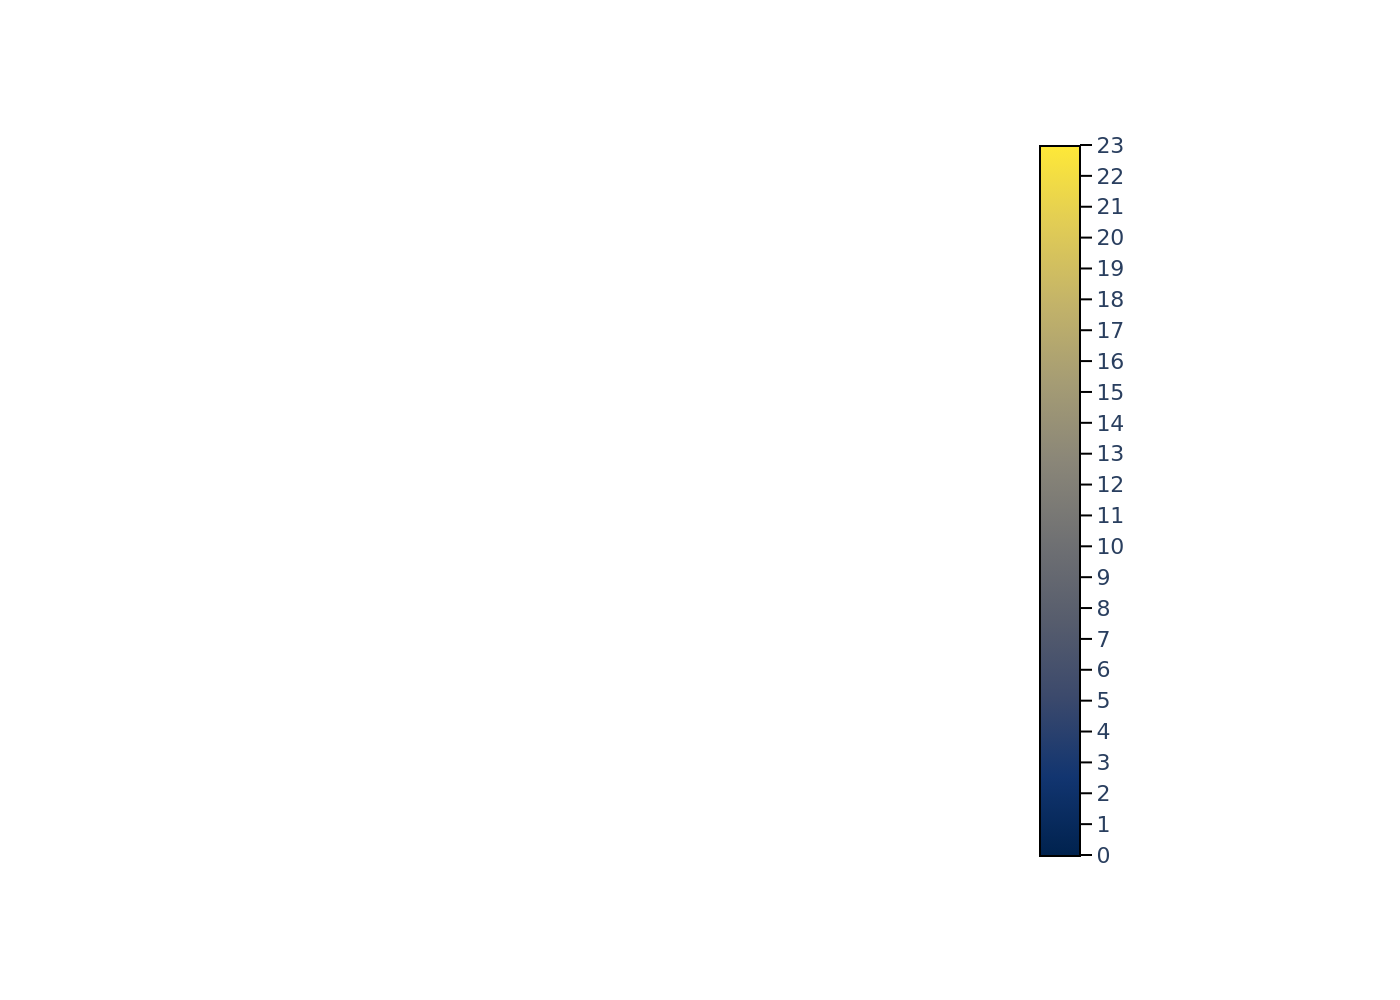
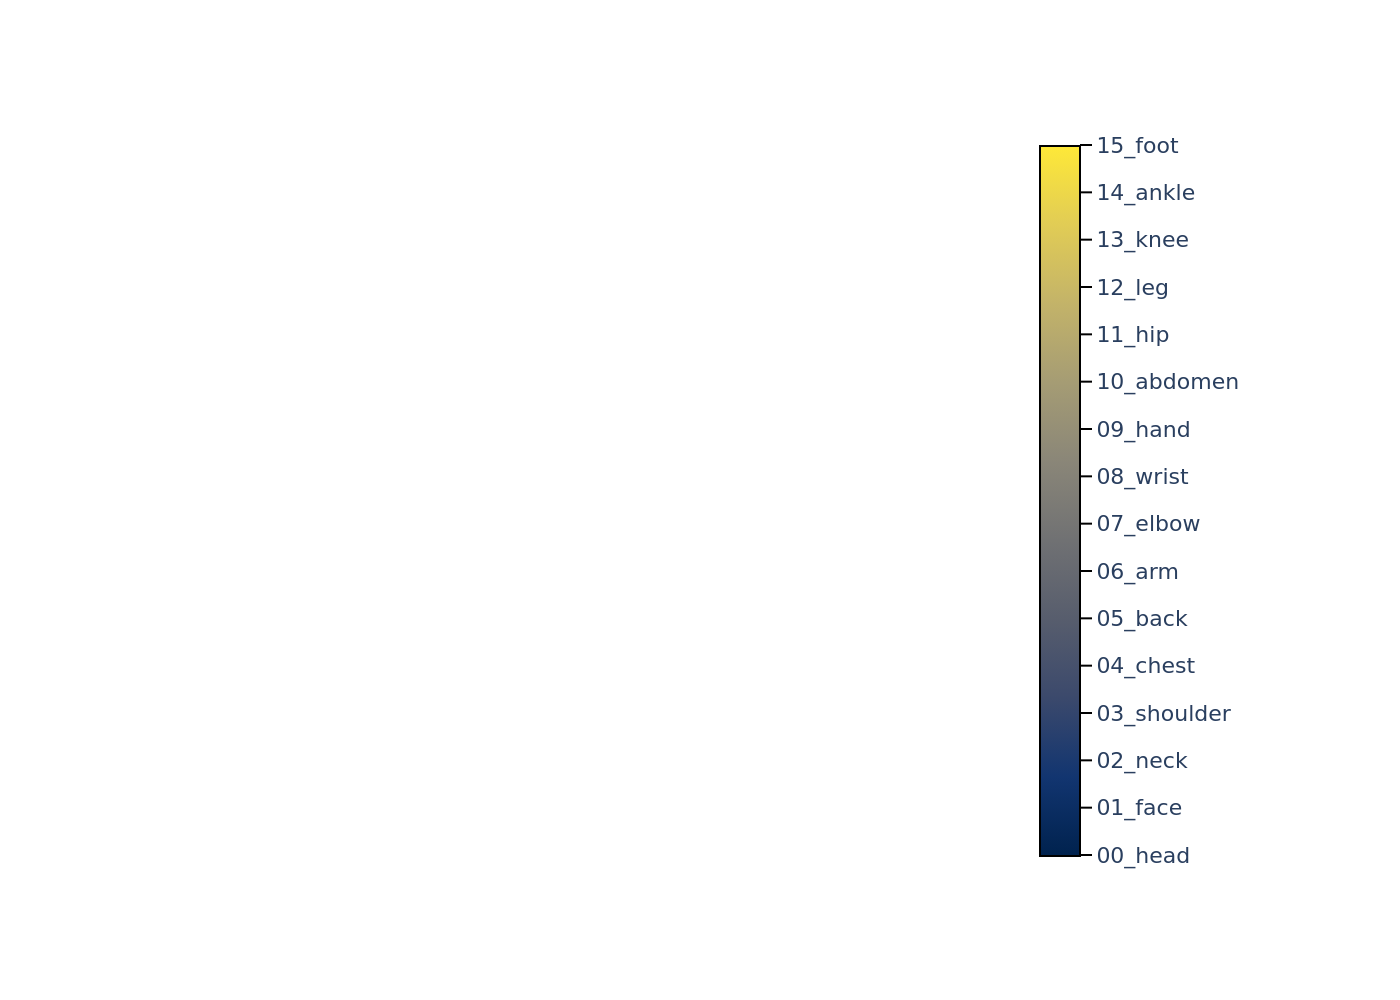
repair legends generation

Changed region(s): [[0.7679, 0.155, 0.8907, 0.868], [0.7986, 0.124, 0.8293, 0.155]]

diff --git a/src/latex/camera_ready.py b/src/latex/camera_ready.py
@@ -115,7 +115,10 @@ def _task_from_dataframe_path(path_str: str) -> str:
     return Path(path_str).stem
 
 
-def load_color_info(dataset_config_path: Path) -> dict[str, dict]:
+def load_color_info(
+    dataset_config_path: Path,
+    csv_base_dir: Path | None = None,
+) -> dict[str, dict]:
     """Return a mapping from task name to its color configuration.
 
     Each value is a dict with keys:
@@ -123,17 +126,43 @@ def load_color_info(dataset_config_path: Path) -> dict[str, dict]:
     - ``color_scale``: named Plotly colorscale string if present, else None
     - ``hypothesis_color_overrides``: {hyp_name: {label: color}} if present, else {}
     - ``continuous_color``: bool
+    - ``labels``: sorted unique Label-column values read from the CSV when
+      *csv_base_dir* is provided and the CSV exists; ``None`` otherwise.
     """
+    import csv as _csv
+
     with open(dataset_config_path) as f:
         raw = json.load(f)
     info: dict[str, dict] = {}
     for entry in raw:
         task = _task_from_dataframe_path(entry["dataframe_path"])
+
+        labels: list | None = None
+        if csv_base_dir is not None:
+            csv_path = csv_base_dir / f"{task}.csv"
+            if csv_path.exists():
+                with open(csv_path, newline="") as cf:
+                    reader = _csv.DictReader(cf)
+                    raw_labels = {row["Label"] for row in reader if "Label" in row}
+                # Attempt numeric sort + conversion (int/float) so colorbars get proper ranges;
+                # fall back to lexicographic string sort for categorical labels.
+                try:
+                    float_vals = {v: float(v) for v in raw_labels}
+                    sorted_str = sorted(raw_labels, key=lambda v: float_vals[v])
+                    # Convert to int where lossless, else keep as float
+                    labels = [
+                        int(float_vals[v]) if float_vals[v] == int(float_vals[v]) else float_vals[v]
+                        for v in sorted_str
+                    ]
+                except ValueError:
+                    labels = sorted(raw_labels)
+
         info[task] = {
             "color_map":                  entry.get("color_map"),
             "color_scale":                entry.get("color_scale"),
             "hypothesis_color_overrides": entry.get("hypothesis_color_overrides", {}),
             "continuous_color":           entry.get("continuous_color", False),
+            "labels":                     labels,
         }
     return info
 
@@ -150,6 +179,7 @@ class LegendGroup:
     color_map: dict | None = None
     color_scale: str | None = None
     continuous_color: bool = False
+    labels: list | None = None  # sorted unique label values; None = unknown
 
 
 def infer_legend_groups(
@@ -162,6 +192,9 @@ def infer_legend_groups(
     - All entries for the same canonical task share one legend, **unless**
       the task has ``hypothesis_color_overrides`` — in that case each overridden
       hypothesis gets its own sub-group; remaining hypotheses share one group.
+    - ``pile-uncopyrighted`` entries are split by wrap length: each unique wrap
+      length (80, 150, …) gets its own group with key
+      ``"pile-uncopyrighted__{N}"``.
     - Task names are canonicalised via :func:`_canonical_task` before config lookup.
     """
     from collections import defaultdict
@@ -175,6 +208,25 @@ def infer_legend_groups(
 
     for task, task_entries in sorted(by_task.items()):
         ci = color_info.get(task, {})
+
+        # ── newline task: one group per wrap length ──────────────────────────
+        if task == "pile-uncopyrighted":
+            by_wrap: dict[int, list[PNGEntry]] = defaultdict(list)
+            for e in task_entries:
+                n = _infer_newline_wrap([e])
+                by_wrap[n].append(e)
+            for n, wrap_entries in sorted(by_wrap.items()):
+                groups.append(LegendGroup(
+                    key=f"pile-uncopyrighted__{n}",
+                    task="pile-uncopyrighted",
+                    hyp_filter=None,
+                    entries=wrap_entries,
+                    color_scale="Viridis",
+                    continuous_color=True,
+                    labels=list(range(1, n + 1)),
+                ))
+            continue
+
         overrides: dict[str, dict] = ci.get("hypothesis_color_overrides", {})
 
         if overrides:
@@ -196,6 +248,7 @@ def infer_legend_groups(
                     entries=hyp_entries,
                     color_map=overrides[hyp_name],
                     continuous_color=False,
+                    labels=ci.get("labels"),
                 )
                 groups.append(g)
 
@@ -208,6 +261,7 @@ def infer_legend_groups(
                     color_map=ci.get("color_map"),
                     color_scale=ci.get("color_scale"),
                     continuous_color=ci.get("continuous_color", False),
+                    labels=ci.get("labels"),
                 )
                 groups.append(g)
         else:
@@ -219,6 +273,7 @@ def infer_legend_groups(
                 color_map=ci.get("color_map"),
                 color_scale=ci.get("color_scale"),
                 continuous_color=ci.get("continuous_color", False),
+                labels=ci.get("labels"),
             )
             groups.append(g)
 
@@ -226,13 +281,17 @@ def infer_legend_groups(
 
 
 def build_all_config_groups(color_info: dict[str, dict]) -> list[LegendGroup]:
-    """Build legend groups for **every** task in the config, even those without PNGs.
+    """Build legend groups for every task in the config, even those without PNGs.
 
-    This ensures a complete library of legend images is generated.
+    ``pile-uncopyrighted`` is excluded — its legends depend on the actual wrap
+    length present in the PNGs and are built by :func:`infer_legend_groups` instead.
     """
     groups: list[LegendGroup] = []
 
     for task, ci in sorted(color_info.items()):
+        if task == "pile-uncopyrighted":
+            continue  # handled per-wrap-length in infer_legend_groups
+
         overrides: dict[str, dict] = ci.get("hypothesis_color_overrides", {})
 
         if overrides:
@@ -243,8 +302,9 @@ def build_all_config_groups(color_info: dict[str, dict]) -> list[LegendGroup]:
                     hyp_filter=hyp_name,
                     color_map=overrides[hyp_name],
                     continuous_color=False,
+                    labels=ci.get("labels"),
                 ))
-            # Default group (no override)
+            # Default group (hypotheses without an override, e.g. taxonomy in living_things)
             groups.append(LegendGroup(
                 key=task,
                 task=task,
@@ -252,6 +312,7 @@ def build_all_config_groups(color_info: dict[str, dict]) -> list[LegendGroup]:
                 color_map=ci.get("color_map"),
                 color_scale=ci.get("color_scale"),
                 continuous_color=ci.get("continuous_color", False),
+                labels=ci.get("labels"),
             ))
         else:
             groups.append(LegendGroup(
@@ -261,6 +322,7 @@ def build_all_config_groups(color_info: dict[str, dict]) -> list[LegendGroup]:
                 color_map=ci.get("color_map"),
                 color_scale=ci.get("color_scale"),
                 continuous_color=ci.get("continuous_color", False),
+                labels=ci.get("labels"),
             ))
 
     return groups
@@ -274,21 +336,8 @@ def _render_group_legend(group: LegendGroup, output_path: Path) -> None:
 
     output_path.parent.mkdir(parents=True, exist_ok=True)
 
-    # Hard-coded newline exception: use Viridis with integer range [1, line_length]
-    if group.task == "pile-uncopyrighted":
-        # Determine wraparound point from any PNG entry's experiment path,
-        # or default to 150.  The newline output dirs are newline_80, newline_150, etc.
-        line_length = _infer_newline_wrap(group.entries)
-        labels = list(range(1, line_length + 1))
-        render_legend_png(
-            colorscale="Viridis",
-            labels=labels,
-            output_path=output_path,
-            continuous_color=True,
-        )
-        return
-
     if group.color_map:
+        # Explicit per-label colour mapping → discrete coloured legend
         labels = sorted(group.color_map.keys())
         render_legend_png(
             colorscale=group.color_map,
@@ -296,15 +345,25 @@ def _render_group_legend(group: LegendGroup, output_path: Path) -> None:
             output_path=output_path,
         )
     elif group.color_scale:
-        # Named colorscale without explicit label→color map.
-        # Build numeric labels matching the class count that scatter3d would see.
-        # The colorbar renders by range; exact tick labels come from the data.
-        labels = list(range(24))  # placeholder — colorbar will auto-range
+        # Named colorscale → continuous colorbar.
+        # Use real label values (loaded from CSV) so the axis range and auto-ticks
+        # reflect the actual data domain (e.g. −40…140 °F) instead of 0…23.
+        if not group.labels:
+            typer.echo(f"  [skip legend] no labels available for group {group.key}", err=True)
+            return
         render_legend_png(
             colorscale=group.color_scale,
-            labels=labels,
+            labels=group.labels,
             output_path=output_path,
+            label_names=None,  # triggers auto-tick in render_legend_png
             continuous_color=group.continuous_color,
+        )
+    elif group.labels:
+        # No explicit color info — render discrete legend with HSV auto-coloring
+        render_legend_png(
+            colorscale=None,
+            labels=group.labels,
+            output_path=output_path,
         )
     else:
         typer.echo(f"  [skip legend] no color info for group {group.key}", err=True)
@@ -472,9 +531,10 @@ def figures(
     typer.echo(f"Scanning {camera_ready_dir} …")
     entries = scan_camera_ready(camera_ready_dir)
 
-    color_info = load_color_info(dataset_config) if dataset_config.exists() else {}
+    csv_base_dir = dataset_config.parent if dataset_config.exists() else None
+    color_info = load_color_info(dataset_config, csv_base_dir=csv_base_dir) if dataset_config.exists() else {}
 
-    # ── Generate legends for ALL config tasks ──────────────────────────────
+    # ── Generate legends for all config tasks (excluding pile-uncopyrighted) ──
     legends_dir = output_dir / "legends"
     legends_dir.mkdir(parents=True, exist_ok=True)
 
@@ -490,7 +550,7 @@ def figures(
             typer.echo(f"  Legend: {legend_path}")
             legend_paths[group.key] = legend_path
 
-    # ── Group PNG entries and generate .tex files ──────────────────────────
+    # ── Group PNG entries (splits pile-uncopyrighted by wrap length) ────────
     if not entries:
         typer.echo("No matching PNGs found.")
         raise typer.Exit(0)
@@ -501,6 +561,16 @@ def figures(
     groups = infer_legend_groups(entries, color_info)
     typer.echo(f"Grouped into {len(groups)} figure group(s).")
 
+    # Render per-wrap-length newline legends (not known until entries are scanned)
+    for group in groups:
+        if group.task == "pile-uncopyrighted":
+            legend_path = legends_dir / f"legend_{group.key}.png"
+            _render_group_legend(group, legend_path)
+            if legend_path.exists():
+                typer.echo(f"  Legend: {legend_path}")
+                legend_paths[group.key] = legend_path
+
+    # ── Generate .tex files ────────────────────────────────────────────────
     for group in groups:
         typer.echo(f"\nGroup: {group.key}  ({len(group.entries)} PNG(s))")
         tex_path = output_dir / f"figure_{group.key}.tex"

diff --git a/src/analysis/scatter3d.py b/src/analysis/scatter3d.py
@@ -748,10 +748,15 @@ def render_legend_png(
     fig = go.Figure()
 
     if _colorscale_is_named or continuous_color:
+        # For numeric labels with no explicit display-name override, pass names=None so
+        # add_colorbar_trace uses its auto-tick path (lo/hi range + _auto_tick_increment)
+        # rather than labelling every index 0,1,2,…
+        _all_numeric = all(isinstance(lb, (int, float)) for lb in labels)
+        names_for_cb = None if (label_names is None and _all_numeric) else names
         add_colorbar_trace(
             fig, labels,
             colorscale_name=colorscale if isinstance(colorscale, str) else "Viridis",
-            names=names,
+            names=names_for_cb,
         )
         # Colourbar needs right margin for the bar itself
         right_margin = 200
